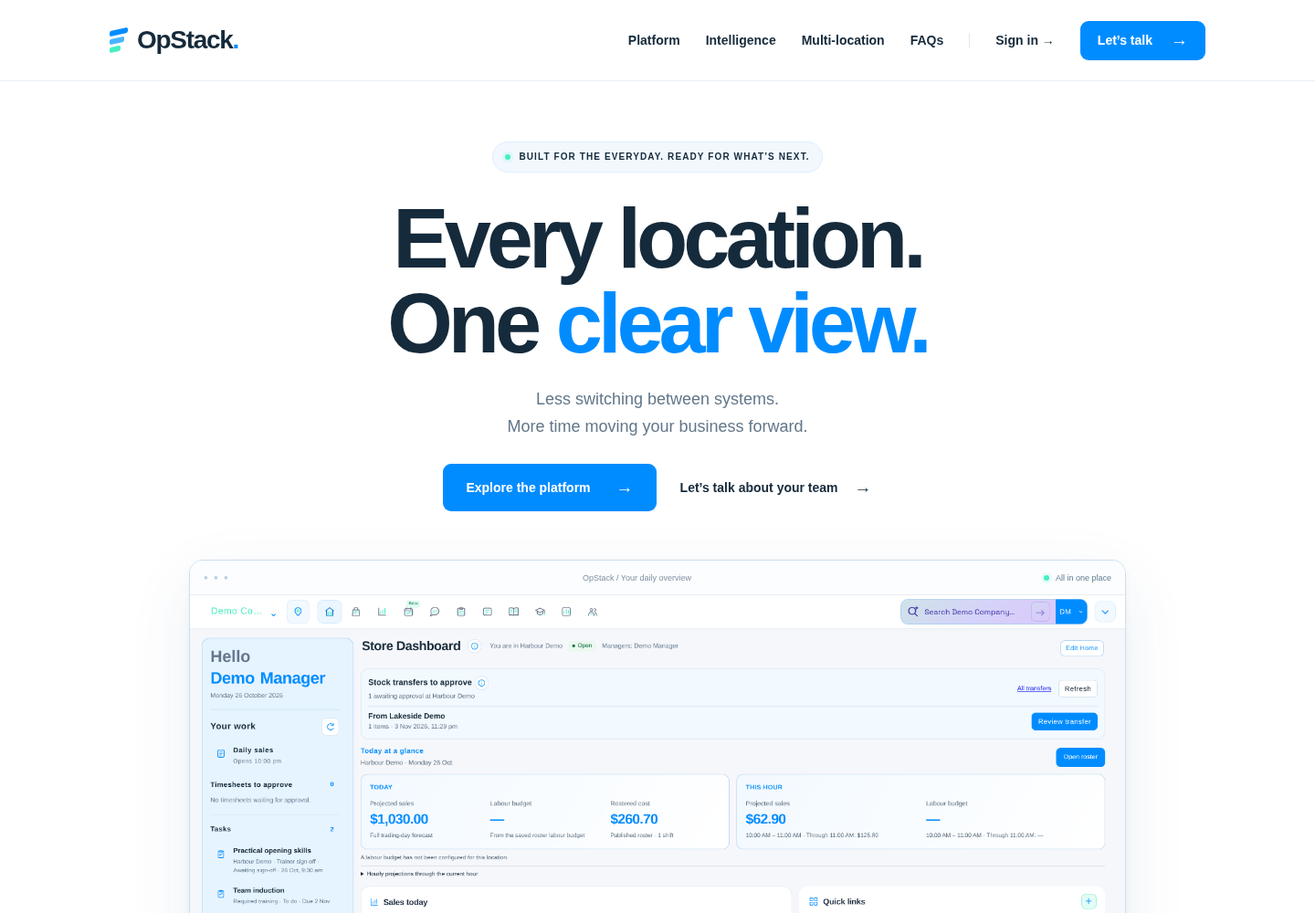
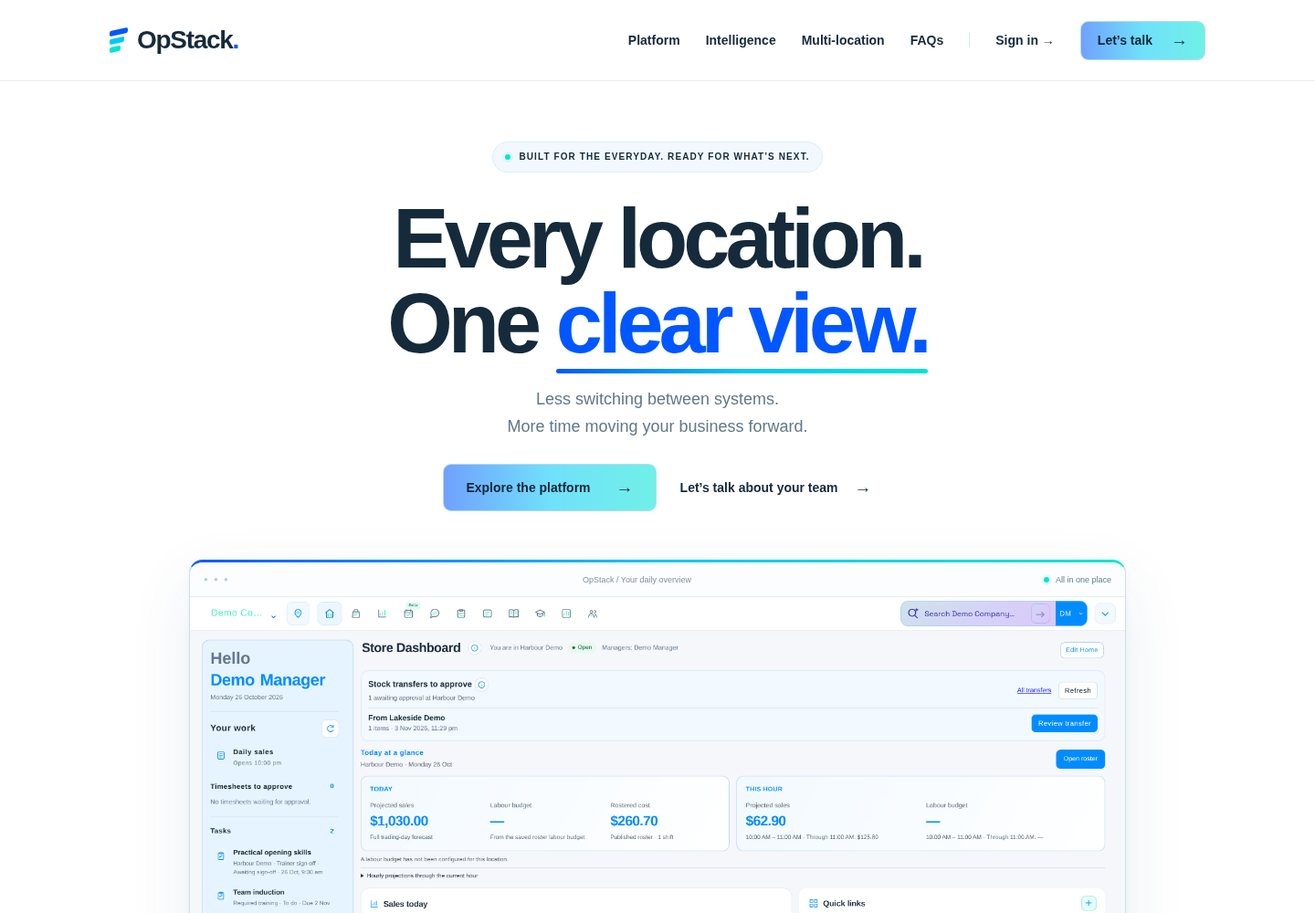
Apply blue cyan teal gradient to marketing website

diff --git a/website/styles.css b/website/styles.css
@@ -1,5 +1,5 @@
 @font-face{font-family:"Space Grotesk";src:url("assets/SpaceGrotesk.ttf") format("truetype");font-weight:300 700;font-style:normal;font-display:swap}
-:root{--blue:#008cff;--blue-deep:#0073d4;--mint:#45efc3;--ink:#152a3b;--muted:#627789;--line:#dce7ef;--paper:#f4f8fc;--ai:linear-gradient(135deg,#0e7490,#4f46e5 50%,#7c3aed)}*{box-sizing:border-box}html{scroll-behavior:smooth;scroll-padding-top:100px}body{margin:0;color:var(--ink);background:white;font-family:Arial,Helvetica,sans-serif;-webkit-font-smoothing:antialiased}button,a,input{ -webkit-tap-highlight-color:transparent}button{font:inherit}a{color:inherit;text-decoration:none}button,a{touch-action:manipulation}img{max-width:100%;height:auto}h1,h2,h3,p{margin:0}button{cursor:pointer}a:focus-visible,button:focus-visible,summary:focus-visible,[tabindex]:focus-visible{outline:3px solid var(--blue);outline-offset:5px}section[id]{scroll-margin-top:24px}.wrap{max-width:1280px;margin:0 auto;padding-left:40px;padding-right:40px}.skip{position:fixed;top:-100px;left:20px;padding:14px;background:white;z-index:100}.skip:focus{top:10px}.header{position:sticky;top:0;background:rgba(255,255,255,.94);backdrop-filter:blur(16px);border-bottom:1px solid #e7eef5;z-index:20}.nav{height:88px;display:flex;align-items:center;justify-content:space-between;gap:30px}.brand{display:inline-flex;align-items:center;font-weight:800;font-size:28px;letter-spacing:-1.3px}.brand-dot{color:var(--blue)}.brand-symbol{display:grid;gap:3px;margin-right:10px;transform:skewY(-12deg)}.brand-symbol i{display:block;width:20px;height:6px;border-radius:2px;background:var(--blue)}.brand-symbol i:nth-child(2){width:16px;background:#49b4ff}.brand-symbol i:nth-child(3){width:12px;background:var(--mint)}.nav-links{display:flex;gap:28px;align-items:center;font-size:14px;font-weight:600}.nav-links>a:not(.button):hover,.text-link:hover,.footer a:hover{color:var(--blue)}.sign-in{border-left:1px solid var(--line);padding-left:28px}.button{display:inline-flex;justify-content:center;align-items:center;gap:28px;min-height:52px;padding:0 24px;background:var(--blue);color:#fff;border:1px solid transparent;border-radius:9px;font-size:14px;font-weight:700;transition:background .2s,transform .2s,box-shadow .2s}.button:hover{background:var(--blue-deep);transform:translateY(-2px);box-shadow:0 5px 20px #008cff25}.button.small{min-height:43px;padding:0 18px;gap:20px}.button span,.text-link span{font-size:19px}.text-link{display:inline-flex;gap:18px;align-items:center;font-size:14px;font-weight:700;min-height:44px}.menu-toggle{display:none}.hero{text-align:center;padding-top:66px}.eyebrow{font-size:10px;font-weight:700;letter-spacing:1.5px;line-height:1.8}.hero>.eyebrow{display:inline-flex;align-items:center;gap:9px;background:#f2f8fe;border:1px solid #dceeff;border-radius:99px;padding:7px 13px;letter-spacing:1.1px}.status-dot{display:inline-block;flex-shrink:0;width:6px;height:6px;background:var(--mint);border-radius:50%;box-shadow:0 0 0 3px #45efc31c}.hero h1{font-size:clamp(52px,7.2vw,92px);line-height:1.01;letter-spacing:-5px;margin:26px 0 22px;font-weight:750}.blue{color:var(--blue)}.hero-copy{font-size:18px;line-height:1.65;color:var(--muted)}.hero-actions{display:flex;align-items:center;justify-content:center;gap:26px;margin-top:26px}.hero-product{position:relative;margin:53px auto 0;max-width:1070px;padding:0 22px}.browser{border:1px solid #cbdfee;background:#fff;border-radius:15px;overflow:hidden;box-shadow:0 24px 70px #164f7c17,0 3px 10px #12345208;text-align:left}.browser-top{height:38px;background:#fcfdff;display:flex;gap:20px;align-items:center;justify-content:space-between;padding:0 15px;font-size:9px;color:#8091a1;border-bottom:1px solid #e6edf4}.browser-dots{color:#b9cddd;font-size:8px;letter-spacing:2px}.browser img{width:100%;display:block;aspect-ratio:1.84;object-fit:cover;object-position:top}.live-tag{display:flex;align-items:center;gap:7px;color:#5e7b8f}.product-note{position:absolute;left:-22px;bottom:40px;background:white;border:1px solid #d5e6f3;border-radius:12px;box-shadow:0 12px 30px #163d5c13;padding:17px 22px;display:flex;align-items:center;gap:15px;text-align:left;font-size:12px;line-height:1.7;color:#6a7f90}.product-note strong{color:var(--ink);font-weight:600}.note-icon{display:grid;place-items:center;width:34px;height:34px;background:#e9f6ff;color:var(--blue);border-radius:9px;font-size:23px}.demo-caption{font-size:10px;color:#8c9ba8;margin-top:16px}.feature-strip{display:flex;justify-content:space-between;gap:16px;padding-top:32px;padding-bottom:32px;margin-top:30px;border-bottom:1px solid var(--line);font-size:12px;font-weight:600;color:#6c8294}.feature-strip span{display:flex;align-items:center;gap:8px}.feature-strip span:before{content:'+';color:var(--blue);font-size:17px}.section{padding-top:100px;padding-bottom:100px}h2{font-size:clamp(34px,4vw,48px);letter-spacing:-1.9px;line-height:1.12}.muted{color:#8ba0b0}.intro-grid{display:grid;grid-template-columns:1.2fr 1fr;gap:90px;align-items:center;margin-top:22px}.intro-grid>p,.section-heading>p,.location-copy>p:not(.eyebrow),.mobile-grid>div>p:not(.eyebrow){font-size:15px;line-height:1.85;color:var(--muted)}.benefits{display:grid;grid-template-columns:repeat(3,1fr);gap:45px;margin-top:60px}.benefits article{border-top:1px solid var(--line);padding-top:25px}.line-icon{display:grid;place-items:center;background:#eaf5ff;color:var(--blue);width:40px;height:40px;border-radius:10px;font-size:24px;margin-bottom:20px}.benefits h3{font-size:18px;letter-spacing:-.5px;margin-bottom:12px}.benefits p{font-size:13px;line-height:1.8;color:var(--muted)}.platform{background:var(--paper)}.section-heading{display:flex;align-items:end;justify-content:space-between;gap:30px}.section-heading h2{margin-top:17px}.section-heading>p{max-width:260px;font-size:13px}.product-tabs{display:flex;gap:5px;margin-top:38px;border-bottom:1px solid #d8e5ef;overflow:auto;padding-bottom:1px}.product-tabs button{flex-shrink:0;padding:15px 22px;border:0;border-bottom:2px solid transparent;background:transparent;color:#687f91;font-weight:600;font-size:12px}.product-tabs button[aria-selected=true]{color:var(--blue);border-bottom-color:var(--blue);background:#e7f3ff;border-radius:7px 7px 0 0}.product-tabs button:hover{color:var(--blue)}.product-panel{display:grid;grid-template-columns:310px 1fr;gap:50px;margin-top:40px;align-items:center;min-height:400px}.section-number{font-size:9px;letter-spacing:1.5px;color:var(--blue);font-weight:700}.product-description h3{font-size:31px;letter-spacing:-1px;line-height:1.2;margin:17px 0}.product-description p{font-size:13px;line-height:1.8;color:var(--muted)}.product-description ul{list-style:none;padding:0;margin:22px 0 12px;font-size:12px;line-height:2.3}.product-description li:before{content:'✓';color:var(--blue);margin-right:10px}.product-description .text-link{font-size:12px;color:var(--blue)}.product-screen{border:6px solid white;border-radius:12px;box-shadow:0 16px 40px #1d4c6812;overflow:hidden;align-self:center;background:white}.product-screen img{display:block;width:100%;aspect-ratio:1.55;object-fit:cover;object-position:top}.intelligence{padding-bottom:55px}.intelligence-card{display:grid;grid-template-columns:1fr 1fr;gap:80px;border-radius:22px;padding:65px;background:radial-gradient(ellipse at 90% 0%,#23295a 0%,transparent 62%),#111d34;color:white;position:relative;overflow:hidden;border:1px solid #353970}.intelligence-card:before{content:'';position:absolute;top:0;left:0;right:0;height:3px;background:var(--ai)}.ai-label{display:inline-flex;gap:9px;align-items:center;border:1px solid #6160a4;background:var(--ai);background-size:200% 200%;border-radius:6px;padding:7px 11px;font-size:12px;font-weight:600;animation:shimmer 6s ease-in-out infinite}.ai-label span{font-size:17px}.intelligence h2{margin:23px 0;font-size:46px;letter-spacing:-1.9px}.intelligence-copy>p:not(.ai-label){font-size:14px;line-height:1.8;color:#afbed4;max-width:350px}.ai-button{background:var(--ai);margin-top:26px;border-color:#7576ae}.ai-button:hover{background:var(--ai);box-shadow:0 0 25px #7c3aed55}.intelligence-features{padding-top:6px}.intelligence-features article{display:flex;gap:17px;padding:26px 0;border-bottom:1px solid #ffffff18}.intelligence-features article>span{color:#9aabff;font-size:25px;min-width:25px}.intelligence-features h3{font-size:16px;margin-bottom:9px}.intelligence-features article p{font-size:12px;line-height:1.8;color:#afbed4}.ai-footnote{font-size:10px;line-height:1.7;color:#93a2bc;margin-top:22px}.locations{display:grid;grid-template-columns:1fr 1fr;gap:100px;align-items:center}.location-visual{padding:45px 30px;background:linear-gradient(140deg,#f0f8ff,#f9fbfd);border:1px solid #e5eef6;border-radius:18px}.location-card{display:flex;align-items:center;gap:15px;padding:24px 18px;border:1px solid #c9e4fa;background:white;border-radius:12px;box-shadow:0 8px 25px #0073d40b}.location-icon{width:40px;height:40px;border-radius:10px;background:#eaf5ff;display:grid;place-items:center;color:var(--blue);font-size:24px}.location-card strong{font-size:14px}.location-card small{display:block;font-size:11px;color:var(--muted);margin-top:5px}.location-badge{font-size:8px;background:#e9faf4;color:#197558;border-radius:99px;padding:6px 8px;margin-left:auto}.connection{height:48px;width:1px;background:#b9dbf3;margin:auto}.store-row{display:grid;grid-template-columns:1fr 1fr;gap:16px;position:relative}.store-row:before{content:'';position:absolute;left:25%;right:25%;top:-18px;height:17px;border:1px solid #b9dbf3;border-bottom:0;border-radius:6px 6px 0 0}.store-card{background:white;border:1px solid #dceaf5;border-radius:12px;text-align:center;padding:22px 10px}.store-card>span{display:block;font-size:25px;color:var(--blue);margin-bottom:12px}.store-card strong{font-size:12px;display:block}.store-card small{display:block;font-size:10px;color:var(--muted);margin-top:7px}.location-note{text-align:center;margin-top:25px;font-size:10px;color:var(--muted)}.location-note .status-dot{margin-right:8px}.location-copy h2{margin:20px 0}.check-list{list-style:none;margin:25px 0 0;padding:0;font-size:12px;color:#4f6578;line-height:2.5}.check-list li:before{content:'✓';color:var(--blue);margin-right:12px}.mobile-section{background:#edf7ff;padding-bottom:0;overflow:hidden}.mobile-grid{display:grid;grid-template-columns:1fr 1fr;gap:100px;align-items:center}.mobile-grid h2{margin:20px 0}.mobile-grid>div>p:not(.eyebrow){max-width:360px}.mobile-grid .text-link{color:var(--blue);margin:22px 0 50px;font-size:12px}.phone-pair{display:flex;gap:18px;align-self:end;padding-top:15px;align-items:start;height:470px;transform:rotate(-5deg)}.phone{margin:0;flex:0 0 46%;border:7px solid #fff;border-radius:27px;overflow:hidden;box-shadow:0 15px 35px #143f621a;background:white}.phone img{display:block;width:100%}.phone.second{margin-top:75px}.faq{display:grid;grid-template-columns:1fr 1.2fr;gap:90px}.faq h2{margin-top:19px}.faq>div>p:not(.eyebrow){font-size:13px;color:var(--muted);margin-top:20px}.faq-list details{border-bottom:1px solid var(--line);padding:0 0 18px;margin:0 0 18px}.faq-list summary{display:flex;justify-content:space-between;align-items:center;gap:18px;cursor:pointer;list-style:none;min-height:32px;font-size:14px;font-weight:600;line-height:1.5}.faq-list summary::-webkit-details-marker{display:none}.faq-list summary span{font-size:22px;font-weight:400;color:var(--blue)}.faq-list details[open] summary span{transform:rotate(45deg)}.faq-list details>p{font-size:13px;color:var(--muted);line-height:1.9;margin-top:15px}.contact{padding-bottom:80px}.contact-inner{background:#008cff;color:white;border-radius:20px;padding:65px;position:relative;overflow:hidden}.contact h2{font-size:50px;margin:20px 0;letter-spacing:-2px}.contact h2 span{color:#bde1ff}.contact-inner>p:not(.eyebrow){font-size:15px;line-height:1.8;color:#e1f1ff}.contact .button{margin-top:27px;background:white;color:#0078dc}.contact .button:hover{background:#eef8ff}.contact-inner .contact-detail{font-size:10px!important;margin-top:15px;color:#d2eaff!important}.contact{position:relative}.contact-decoration{position:absolute;right:90px;top:55px;pointer-events:none;font-size:230px;color:#ffffff18;font-weight:700}.footer{display:flex;gap:30px;align-items:start;justify-content:space-between;padding-bottom:45px}.footer .brand{font-size:26px}.footer>div>p{font-size:11px;color:var(--muted);margin-top:9px}.footer nav{display:flex;gap:24px;font-size:11px;padding-top:10px}.copyright{text-align:right;font-size:10px;color:#7c8f9f;line-height:2}.copyright span{color:#94a5b2}@keyframes shimmer{0%,100%{background-position:0% 50%}50%{background-position:100% 50%}}
+:root{--blue:#0057ff;--blue-deep:#0047cf;--mint:#00e5d4;--brand-gradient:linear-gradient(90deg, #0057FF 0%, #00C8F8 50%, #00E5D4 100%);--ink:#152a3b;--muted:#627789;--line:#dce7ef;--paper:#f4f8fc;--ai:var(--brand-gradient)}*{box-sizing:border-box}html{scroll-behavior:smooth;scroll-padding-top:100px}body{margin:0;color:var(--ink);background:white;font-family:Arial,Helvetica,sans-serif;-webkit-font-smoothing:antialiased}button,a,input{ -webkit-tap-highlight-color:transparent}button{font:inherit}a{color:inherit;text-decoration:none}button,a{touch-action:manipulation}img{max-width:100%;height:auto}h1,h2,h3,p{margin:0}button{cursor:pointer}a:focus-visible,button:focus-visible,summary:focus-visible,[tabindex]:focus-visible{outline:3px solid var(--blue);outline-offset:5px}section[id]{scroll-margin-top:24px}.wrap{max-width:1280px;margin:0 auto;padding-left:40px;padding-right:40px}.skip{position:fixed;top:-100px;left:20px;padding:14px;background:white;z-index:100}.skip:focus{top:10px}.header{position:sticky;top:0;background:rgba(255,255,255,.94);backdrop-filter:blur(16px);border-bottom:1px solid #e7eef5;z-index:20}.nav{height:88px;display:flex;align-items:center;justify-content:space-between;gap:30px}.brand{display:inline-flex;align-items:center;font-weight:800;font-size:28px;letter-spacing:-1.3px}.brand-dot{color:var(--blue)}.brand-symbol{display:grid;gap:3px;margin-right:10px;transform:skewY(-12deg)}.brand-symbol i{display:block;width:20px;height:6px;border-radius:2px;background:var(--blue)}.brand-symbol i:nth-child(2){width:16px;background:#49b4ff}.brand-symbol i:nth-child(3){width:12px;background:var(--mint)}.nav-links{display:flex;gap:28px;align-items:center;font-size:14px;font-weight:600}.nav-links>a:not(.button):hover,.text-link:hover,.footer a:hover{color:var(--blue)}.sign-in{border-left:1px solid var(--line);padding-left:28px}.button{display:inline-flex;justify-content:center;align-items:center;gap:28px;min-height:52px;padding:0 24px;background:var(--blue);color:#fff;border:1px solid transparent;border-radius:9px;font-size:14px;font-weight:700;transition:background .2s,transform .2s,box-shadow .2s}.button:hover{background:var(--blue-deep);transform:translateY(-2px);box-shadow:0 5px 20px #008cff25}.button.small{min-height:43px;padding:0 18px;gap:20px}.button span,.text-link span{font-size:19px}.text-link{display:inline-flex;gap:18px;align-items:center;font-size:14px;font-weight:700;min-height:44px}.menu-toggle{display:none}.hero{text-align:center;padding-top:66px}.eyebrow{font-size:10px;font-weight:700;letter-spacing:1.5px;line-height:1.8}.hero>.eyebrow{display:inline-flex;align-items:center;gap:9px;background:#f2f8fe;border:1px solid #dceeff;border-radius:99px;padding:7px 13px;letter-spacing:1.1px}.status-dot{display:inline-block;flex-shrink:0;width:6px;height:6px;background:var(--mint);border-radius:50%;box-shadow:0 0 0 3px #45efc31c}.hero h1{font-size:clamp(52px,7.2vw,92px);line-height:1.01;letter-spacing:-5px;margin:26px 0 22px;font-weight:750}.blue{color:var(--blue)}.hero-copy{font-size:18px;line-height:1.65;color:var(--muted)}.hero-actions{display:flex;align-items:center;justify-content:center;gap:26px;margin-top:26px}.hero-product{position:relative;margin:53px auto 0;max-width:1070px;padding:0 22px}.browser{border:1px solid #cbdfee;background:#fff;border-radius:15px;overflow:hidden;box-shadow:0 24px 70px #164f7c17,0 3px 10px #12345208;text-align:left}.browser-top{height:38px;background:#fcfdff;display:flex;gap:20px;align-items:center;justify-content:space-between;padding:0 15px;font-size:9px;color:#8091a1;border-bottom:1px solid #e6edf4}.browser-dots{color:#b9cddd;font-size:8px;letter-spacing:2px}.browser img{width:100%;display:block;aspect-ratio:1.84;object-fit:cover;object-position:top}.live-tag{display:flex;align-items:center;gap:7px;color:#5e7b8f}.product-note{position:absolute;left:-22px;bottom:40px;background:white;border:1px solid #d5e6f3;border-radius:12px;box-shadow:0 12px 30px #163d5c13;padding:17px 22px;display:flex;align-items:center;gap:15px;text-align:left;font-size:12px;line-height:1.7;color:#6a7f90}.product-note strong{color:var(--ink);font-weight:600}.note-icon{display:grid;place-items:center;width:34px;height:34px;background:#e9f6ff;color:var(--blue);border-radius:9px;font-size:23px}.demo-caption{font-size:10px;color:#8c9ba8;margin-top:16px}.feature-strip{display:flex;justify-content:space-between;gap:16px;padding-top:32px;padding-bottom:32px;margin-top:30px;border-bottom:1px solid var(--line);font-size:12px;font-weight:600;color:#6c8294}.feature-strip span{display:flex;align-items:center;gap:8px}.feature-strip span:before{content:'+';color:var(--blue);font-size:17px}.section{padding-top:100px;padding-bottom:100px}h2{font-size:clamp(34px,4vw,48px);letter-spacing:-1.9px;line-height:1.12}.muted{color:#8ba0b0}.intro-grid{display:grid;grid-template-columns:1.2fr 1fr;gap:90px;align-items:center;margin-top:22px}.intro-grid>p,.section-heading>p,.location-copy>p:not(.eyebrow),.mobile-grid>div>p:not(.eyebrow){font-size:15px;line-height:1.85;color:var(--muted)}.benefits{display:grid;grid-template-columns:repeat(3,1fr);gap:45px;margin-top:60px}.benefits article{border-top:1px solid var(--line);padding-top:25px}.line-icon{display:grid;place-items:center;background:#eaf5ff;color:var(--blue);width:40px;height:40px;border-radius:10px;font-size:24px;margin-bottom:20px}.benefits h3{font-size:18px;letter-spacing:-.5px;margin-bottom:12px}.benefits p{font-size:13px;line-height:1.8;color:var(--muted)}.platform{background:var(--paper)}.section-heading{display:flex;align-items:end;justify-content:space-between;gap:30px}.section-heading h2{margin-top:17px}.section-heading>p{max-width:260px;font-size:13px}.product-tabs{display:flex;gap:5px;margin-top:38px;border-bottom:1px solid #d8e5ef;overflow:auto;padding-bottom:1px}.product-tabs button{flex-shrink:0;padding:15px 22px;border:0;border-bottom:2px solid transparent;background:transparent;color:#687f91;font-weight:600;font-size:12px}.product-tabs button[aria-selected=true]{color:var(--blue);border-bottom-color:var(--blue);background:#e7f3ff;border-radius:7px 7px 0 0}.product-tabs button:hover{color:var(--blue)}.product-panel{display:grid;grid-template-columns:310px 1fr;gap:50px;margin-top:40px;align-items:center;min-height:400px}.section-number{font-size:9px;letter-spacing:1.5px;color:var(--blue);font-weight:700}.product-description h3{font-size:31px;letter-spacing:-1px;line-height:1.2;margin:17px 0}.product-description p{font-size:13px;line-height:1.8;color:var(--muted)}.product-description ul{list-style:none;padding:0;margin:22px 0 12px;font-size:12px;line-height:2.3}.product-description li:before{content:'✓';color:var(--blue);margin-right:10px}.product-description .text-link{font-size:12px;color:var(--blue)}.product-screen{border:6px solid white;border-radius:12px;box-shadow:0 16px 40px #1d4c6812;overflow:hidden;align-self:center;background:white}.product-screen img{display:block;width:100%;aspect-ratio:1.55;object-fit:cover;object-position:top}.intelligence{padding-bottom:55px}.intelligence-card{display:grid;grid-template-columns:1fr 1fr;gap:80px;border-radius:22px;padding:65px;background:radial-gradient(ellipse at 90% 0%,#23295a 0%,transparent 62%),#111d34;color:white;position:relative;overflow:hidden;border:1px solid #353970}.intelligence-card:before{content:'';position:absolute;top:0;left:0;right:0;height:3px;background:var(--ai)}.ai-label{display:inline-flex;gap:9px;align-items:center;border:1px solid #6160a4;background:var(--ai);background-size:200% 200%;border-radius:6px;padding:7px 11px;font-size:12px;font-weight:600;animation:shimmer 6s ease-in-out infinite}.ai-label span{font-size:17px}.intelligence h2{margin:23px 0;font-size:46px;letter-spacing:-1.9px}.intelligence-copy>p:not(.ai-label){font-size:14px;line-height:1.8;color:#afbed4;max-width:350px}.ai-button{background:var(--ai);margin-top:26px;border-color:#7576ae}.ai-button:hover{background:var(--ai);box-shadow:0 0 25px #7c3aed55}.intelligence-features{padding-top:6px}.intelligence-features article{display:flex;gap:17px;padding:26px 0;border-bottom:1px solid #ffffff18}.intelligence-features article>span{color:#9aabff;font-size:25px;min-width:25px}.intelligence-features h3{font-size:16px;margin-bottom:9px}.intelligence-features article p{font-size:12px;line-height:1.8;color:#afbed4}.ai-footnote{font-size:10px;line-height:1.7;color:#93a2bc;margin-top:22px}.locations{display:grid;grid-template-columns:1fr 1fr;gap:100px;align-items:center}.location-visual{padding:45px 30px;background:linear-gradient(140deg,#f0f8ff,#f9fbfd);border:1px solid #e5eef6;border-radius:18px}.location-card{display:flex;align-items:center;gap:15px;padding:24px 18px;border:1px solid #c9e4fa;background:white;border-radius:12px;box-shadow:0 8px 25px #0073d40b}.location-icon{width:40px;height:40px;border-radius:10px;background:#eaf5ff;display:grid;place-items:center;color:var(--blue);font-size:24px}.location-card strong{font-size:14px}.location-card small{display:block;font-size:11px;color:var(--muted);margin-top:5px}.location-badge{font-size:8px;background:#e9faf4;color:#197558;border-radius:99px;padding:6px 8px;margin-left:auto}.connection{height:48px;width:1px;background:#b9dbf3;margin:auto}.store-row{display:grid;grid-template-columns:1fr 1fr;gap:16px;position:relative}.store-row:before{content:'';position:absolute;left:25%;right:25%;top:-18px;height:17px;border:1px solid #b9dbf3;border-bottom:0;border-radius:6px 6px 0 0}.store-card{background:white;border:1px solid #dceaf5;border-radius:12px;text-align:center;padding:22px 10px}.store-card>span{display:block;font-size:25px;color:var(--blue);margin-bottom:12px}.store-card strong{font-size:12px;display:block}.store-card small{display:block;font-size:10px;color:var(--muted);margin-top:7px}.location-note{text-align:center;margin-top:25px;font-size:10px;color:var(--muted)}.location-note .status-dot{margin-right:8px}.location-copy h2{margin:20px 0}.check-list{list-style:none;margin:25px 0 0;padding:0;font-size:12px;color:#4f6578;line-height:2.5}.check-list li:before{content:'✓';color:var(--blue);margin-right:12px}.mobile-section{background:#edf7ff;padding-bottom:0;overflow:hidden}.mobile-grid{display:grid;grid-template-columns:1fr 1fr;gap:100px;align-items:center}.mobile-grid h2{margin:20px 0}.mobile-grid>div>p:not(.eyebrow){max-width:360px}.mobile-grid .text-link{color:var(--blue);margin:22px 0 50px;font-size:12px}.phone-pair{display:flex;gap:18px;align-self:end;padding-top:15px;align-items:start;height:470px;transform:rotate(-5deg)}.phone{margin:0;flex:0 0 46%;border:7px solid #fff;border-radius:27px;overflow:hidden;box-shadow:0 15px 35px #143f621a;background:white}.phone img{display:block;width:100%}.phone.second{margin-top:75px}.faq{display:grid;grid-template-columns:1fr 1.2fr;gap:90px}.faq h2{margin-top:19px}.faq>div>p:not(.eyebrow){font-size:13px;color:var(--muted);margin-top:20px}.faq-list details{border-bottom:1px solid var(--line);padding:0 0 18px;margin:0 0 18px}.faq-list summary{display:flex;justify-content:space-between;align-items:center;gap:18px;cursor:pointer;list-style:none;min-height:32px;font-size:14px;font-weight:600;line-height:1.5}.faq-list summary::-webkit-details-marker{display:none}.faq-list summary span{font-size:22px;font-weight:400;color:var(--blue)}.faq-list details[open] summary span{transform:rotate(45deg)}.faq-list details>p{font-size:13px;color:var(--muted);line-height:1.9;margin-top:15px}.contact{padding-bottom:80px}.contact-inner{background:#008cff;color:white;border-radius:20px;padding:65px;position:relative;overflow:hidden}.contact h2{font-size:50px;margin:20px 0;letter-spacing:-2px}.contact h2 span{color:#bde1ff}.contact-inner>p:not(.eyebrow){font-size:15px;line-height:1.8;color:#e1f1ff}.contact .button{margin-top:27px;background:white;color:#0078dc}.contact .button:hover{background:#eef8ff}.contact-inner .contact-detail{font-size:10px!important;margin-top:15px;color:#d2eaff!important}.contact{position:relative}.contact-decoration{position:absolute;right:90px;top:55px;pointer-events:none;font-size:230px;color:#ffffff18;font-weight:700}.footer{display:flex;gap:30px;align-items:start;justify-content:space-between;padding-bottom:45px}.footer .brand{font-size:26px}.footer>div>p{font-size:11px;color:var(--muted);margin-top:9px}.footer nav{display:flex;gap:24px;font-size:11px;padding-top:10px}.copyright{text-align:right;font-size:10px;color:#7c8f9f;line-height:2}.copyright span{color:#94a5b2}@keyframes shimmer{0%,100%{background-position:0% 50%}50%{background-position:100% 50%}}
 @media(min-width:1500px){.hero-product{max-width:1100px}}
 @media(max-width:1050px){.nav-links{gap:17px;font-size:12px}.sign-in{padding-left:16px}.intro-grid,.locations,.mobile-grid{gap:45px}.product-panel{grid-template-columns:260px 1fr;gap:25px}.intelligence-card{gap:45px;padding:45px}.faq{gap:40px}.product-tabs button{padding:15px 16px}.footer{flex-wrap:wrap}.copyright{text-align:left}.phone-pair{height:410px}.hero h1{letter-spacing:-3.5px}.product-note{left:0}.contact-decoration{font-size:180px}}
 @media(max-width:760px){.wrap{padding-left:22px;padding-right:22px}.nav{height:72px}.brand{font-size:25px}.menu-toggle{display:grid;gap:5px;border:1px solid var(--line);border-radius:8px;background:white;width:44px;height:44px;align-content:center;justify-content:center}.menu-toggle span{display:block;width:18px;height:2px;background:var(--ink)}.nav-links{display:none;position:absolute;left:0;right:0;top:72px;background:white;padding:20px 22px;border-bottom:1px solid var(--line);box-shadow:0 10px 20px #152a3b0b;align-items:stretch;gap:0}.nav-links.open{display:flex;flex-direction:column}.nav-links>a{min-height:45px;display:flex;align-items:center;font-size:14px}.nav-links .button{margin-top:10px;justify-content:center}.sign-in{border:0;padding-left:0}.hero{padding-top:42px}.hero>.eyebrow{font-size:8px;letter-spacing:.65px;padding:6px 10px}.hero h1{font-size:60px;letter-spacing:-3.2px;margin:25px 0 20px}.hero-copy{font-size:15px}.hero-actions{gap:12px;flex-direction:column;margin-top:25px}.button{min-height:50px}.hero-product{padding:0;margin-top:35px}.browser{border-radius:10px}.browser-top{height:27px;font-size:7px;padding:0 9px;gap:8px}.live-tag{display:none}.browser img{aspect-ratio:1.25;object-fit:cover;object-position:top left}.product-note{display:none}.demo-caption{font-size:9px}.feature-strip{margin-top:10px;flex-wrap:wrap;justify-content:center;font-size:10px;gap:14px 22px;padding-top:25px;padding-bottom:25px}.section{padding-top:65px;padding-bottom:65px}h2{font-size:35px;letter-spacing:-1.4px}.eyebrow{font-size:9px;letter-spacing:1.1px}.intro-grid{grid-template-columns:1fr;gap:22px;margin-top:16px}.intro-grid>p{font-size:14px}.benefits{grid-template-columns:1fr;gap:28px;margin-top:35px}.benefits article{position:relative;padding-left:57px;padding-top:23px}.line-icon{position:absolute;left:0;top:23px;width:36px;height:36px;font-size:22px}.benefits h3{font-size:17px;margin-bottom:8px}.benefits p{font-size:13px}.section-heading{display:block}.section-heading h2{margin-top:12px}.section-heading>p{margin-top:15px;max-width:none}.product-tabs{margin-top:25px}.product-tabs button{padding:14px 17px;min-height:44px}.product-panel{grid-template-columns:1fr;gap:25px;min-height:0;margin-top:28px}.product-description h3{font-size:29px;margin:12px 0}.product-description p{max-width:500px}.product-description ul{margin:15px 0 5px}.product-screen{border-width:4px;order:-1}.product-screen img{aspect-ratio:1.4}.intelligence-card{grid-template-columns:1fr;gap:25px;padding:30px 25px;border-radius:16px}.intelligence{padding-bottom:10px}.intelligence h2{font-size:36px;letter-spacing:-1.5px;margin:22px 0}.intelligence-features article{padding:22px 0}.intelligence-features{padding-top:0}.locations{grid-template-columns:1fr;gap:35px}.location-copy{order:-1}.location-visual{padding:35px 25px}.location-copy h2{margin:15px 0}.location-copy>p:not(.eyebrow){font-size:14px}.check-list{font-size:11px}.mobile-section{padding-bottom:0}.mobile-grid{grid-template-columns:1fr;gap:0}.mobile-grid h2{margin:15px 0}.mobile-grid>div>p:not(.eyebrow){font-size:14px;max-width:none}.mobile-grid .text-link{margin-bottom:28px}.phone-pair{height:380px;max-width:390px;margin:auto;gap:15px;transform:rotate(-4deg)}.phone{border-width:5px;border-radius:24px}.phone.second{margin-top:45px}.faq{grid-template-columns:1fr;gap:35px}.faq h2{margin-top:14px}.faq-list summary{font-size:13px;min-height:42px}.contact{padding-bottom:50px}.contact-inner{padding:40px 25px;border-radius:15px}.contact h2{font-size:34px;letter-spacing:-1.4px;margin:17px 0}.contact-inner>p:not(.eyebrow){font-size:13px}.contact-decoration{right:35px;top:20px;font-size:110px}.footer{gap:24px;flex-direction:column}.footer nav{gap:22px;flex-wrap:wrap}.copyright{text-align:left}.footer .brand{font-size:24px}}
@@ -8,3 +8,27 @@
 .line-icon svg,.location-icon svg,.store-card>span svg{width:24px;height:24px}.store-card>span{display:flex;justify-content:center}.ai-label svg{width:16px;height:16px;display:block}.intelligence-features article>span svg{width:25px;height:25px;display:block}
 
 .intelligence-card{font-family:"Space Grotesk",Arial,sans-serif}
+
+/* Ocean gradient belongs to the public website; tenant appearance stays separate.
+   A light scrim on text-bearing fills preserves dark-label contrast at every stop. */
+:root{--gradient-label:#10263b;--gradient-fill:linear-gradient(#ffffff70,#ffffff70),var(--brand-gradient)}
+.brand-symbol i{background:#0057ff}.brand-symbol i:nth-child(2){background:#00c8f8}.brand-symbol i:nth-child(3){background:#00e5d4}
+.button{background:var(--gradient-fill);color:var(--gradient-label);border-color:#b1dcf5}
+.button:hover{background:linear-gradient(#ffffff90,#ffffff90),var(--brand-gradient);box-shadow:0 6px 22px #0057ff25}
+.hero h1 .blue{position:relative;display:inline-block;color:var(--blue)}
+.hero h1 .blue:after{content:"";position:absolute;left:0;right:0;bottom:-8px;height:5px;border-radius:5px;background:var(--brand-gradient)}
+.browser{border-top:3px solid transparent;background:linear-gradient(white,white) padding-box,var(--brand-gradient) border-box}
+.product-tabs button[aria-selected=true]{border-image:var(--brand-gradient) 1;background:linear-gradient(90deg,#0057ff0d,#00c8f812,#00e5d419)}
+.ai-label{background:var(--gradient-fill);color:var(--gradient-label);border-color:#8dcbe6;animation:none}
+.intelligence-card{background:radial-gradient(ellipse at 95% 0%,#123f57 0%,transparent 62%),#111d34;border-color:#2b5d72}
+.intelligence-card:before{background:var(--brand-gradient)}
+.intelligence-features article>span{color:#74e8eb}
+.ai-button{background:var(--gradient-fill);color:var(--gradient-label);border-color:#87cadf}
+.ai-button:hover{background:linear-gradient(#ffffff90,#ffffff90),var(--brand-gradient);box-shadow:0 0 25px #00c8f844}
+.contact-inner{background:var(--gradient-fill);color:var(--ink);border:1px solid #b7e5ed}
+.contact-inner:before{content:"";position:absolute;left:0;top:0;right:0;height:4px;background:var(--brand-gradient)}
+.contact h2 span{color:#164a69}.contact-inner>p:not(.eyebrow){color:#26475e}
+.contact-inner .contact-detail{color:#26475e!important}
+.contact .button{background:#10263b;color:white;border-color:#10263b}
+.contact .button:hover{background:#193c57;color:white}
+.contact-decoration{color:#10263b12}

diff --git a/website/index.html b/website/index.html
@@ -4,7 +4,7 @@
 <meta charset="utf-8"><meta name="viewport" content="width=device-width,initial-scale=1">
 <title>OpStack — Every location. One clear view.</title>
 <meta name="description" content="Connect your hospitality operations with OpStack. Bring sales, rosters, ordering, training and team communication together across your locations.">
-<meta name="theme-color" content="#008cff"><meta property="og:title" content="OpStack — Every location. One clear view."><meta property="og:description" content="Your people, stock and daily operations. Finally on the same page."><meta property="og:type" content="website">
+<meta name="theme-color" content="#0057ff"><meta property="og:title" content="OpStack — Every location. One clear view."><meta property="og:description" content="Your people, stock and daily operations. Finally on the same page."><meta property="og:type" content="website">
 <link rel="icon" href="assets/opstack-icon.png"><link rel="stylesheet" href="styles.css"><script src="site.js" defer></script>
 </head>
 <body>

diff --git a/website/README.md b/website/README.md
@@ -1,6 +1,6 @@
 # OpStack marketing website
 
-Responsive public marketing site, using the app's blue/mint colours and genuine isolated-demo screenshots. No analytics, external fonts, cookies, enquiry database or third-party browser scripts are included. The Intelligence section reuses the app’s locally hosted Space Grotesk font, with its OFL licence included in assets.
+Responsive public marketing site, using the requested blue/cyan/teal gradient (`linear-gradient(90deg, #0057FF 0%, #00C8F8 50%, #00E5D4 100%)`) and genuine isolated-demo screenshots. No analytics, external fonts, cookies, enquiry database or third-party browser scripts are included. The Intelligence section reuses the app’s locally hosted Space Grotesk font, with its OFL licence included in assets.
 
 ## Open the website
 
@@ -33,3 +33,5 @@ node --test marketing-site.test.js public-assets.test.js
 Browser checks cover all tab states, arrow/Home/End keys, internal anchors, mailto destinations, phone menu/Escape, loaded images and overflow at 320, 390, 768, 1024 and 1440 pixels.
 
 Run `node tools/check-marketing-site.cjs` for native-app browser verification (requires Chromium and Playwright; override `OPSTACK_PLAYWRIGHT_MODULE` or `OPSTACK_WEBSITE_PREVIEW_DIR` for local paths).
+
+The gradient is scoped to this marketing website. Text-bearing gradient fills include a light overlay and dark text for contrast; the full-colour gradient remains on decorative edges and highlights. Tenant app colours and Intelligence palette settings are unchanged.
